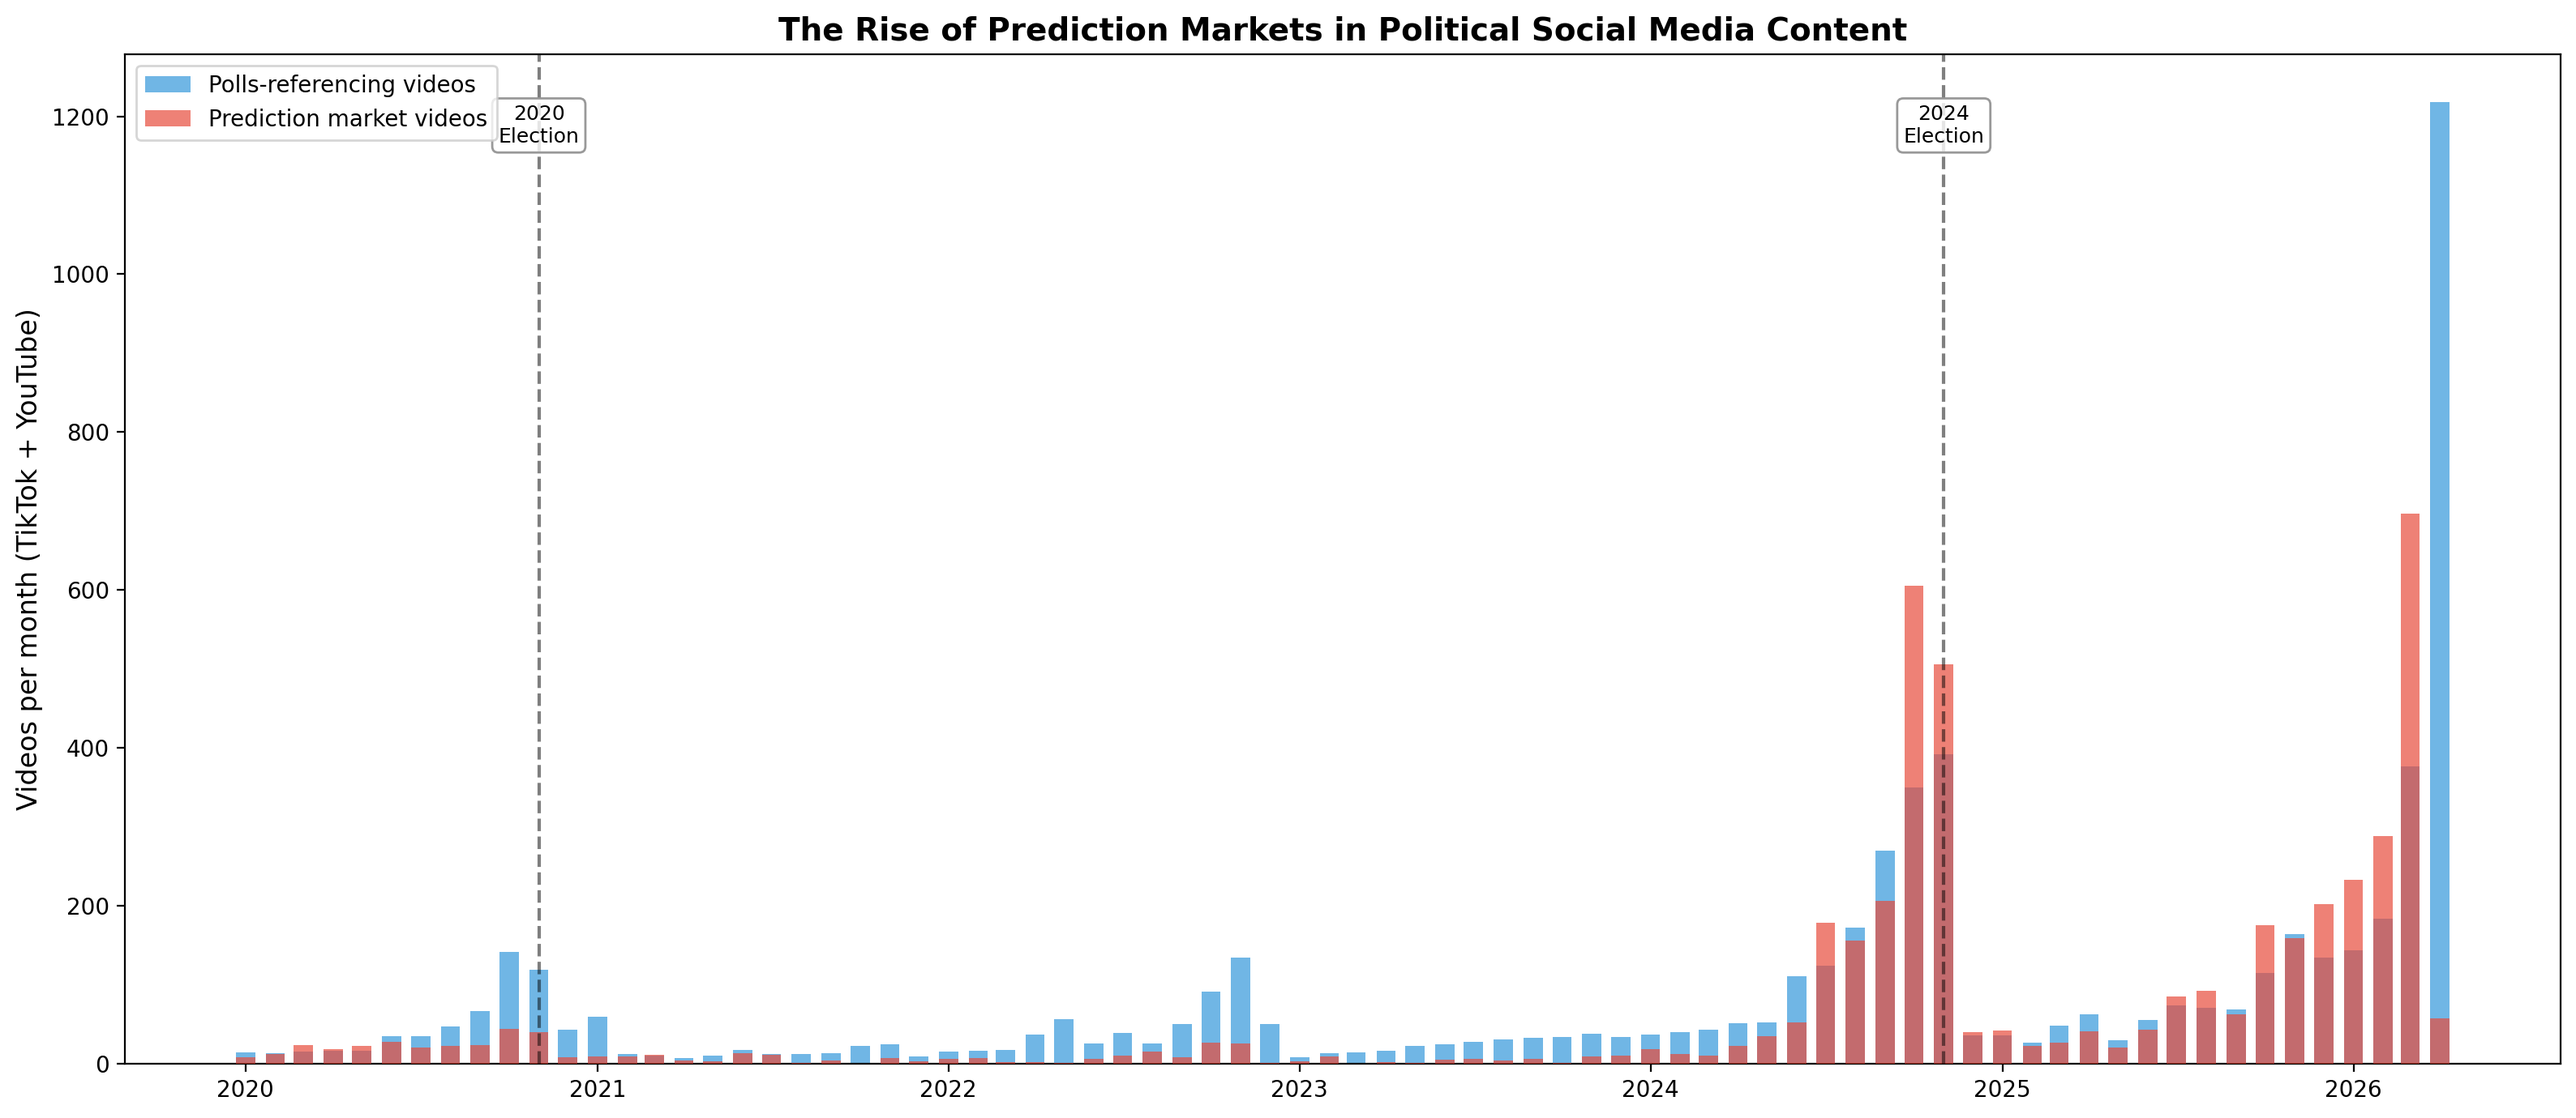
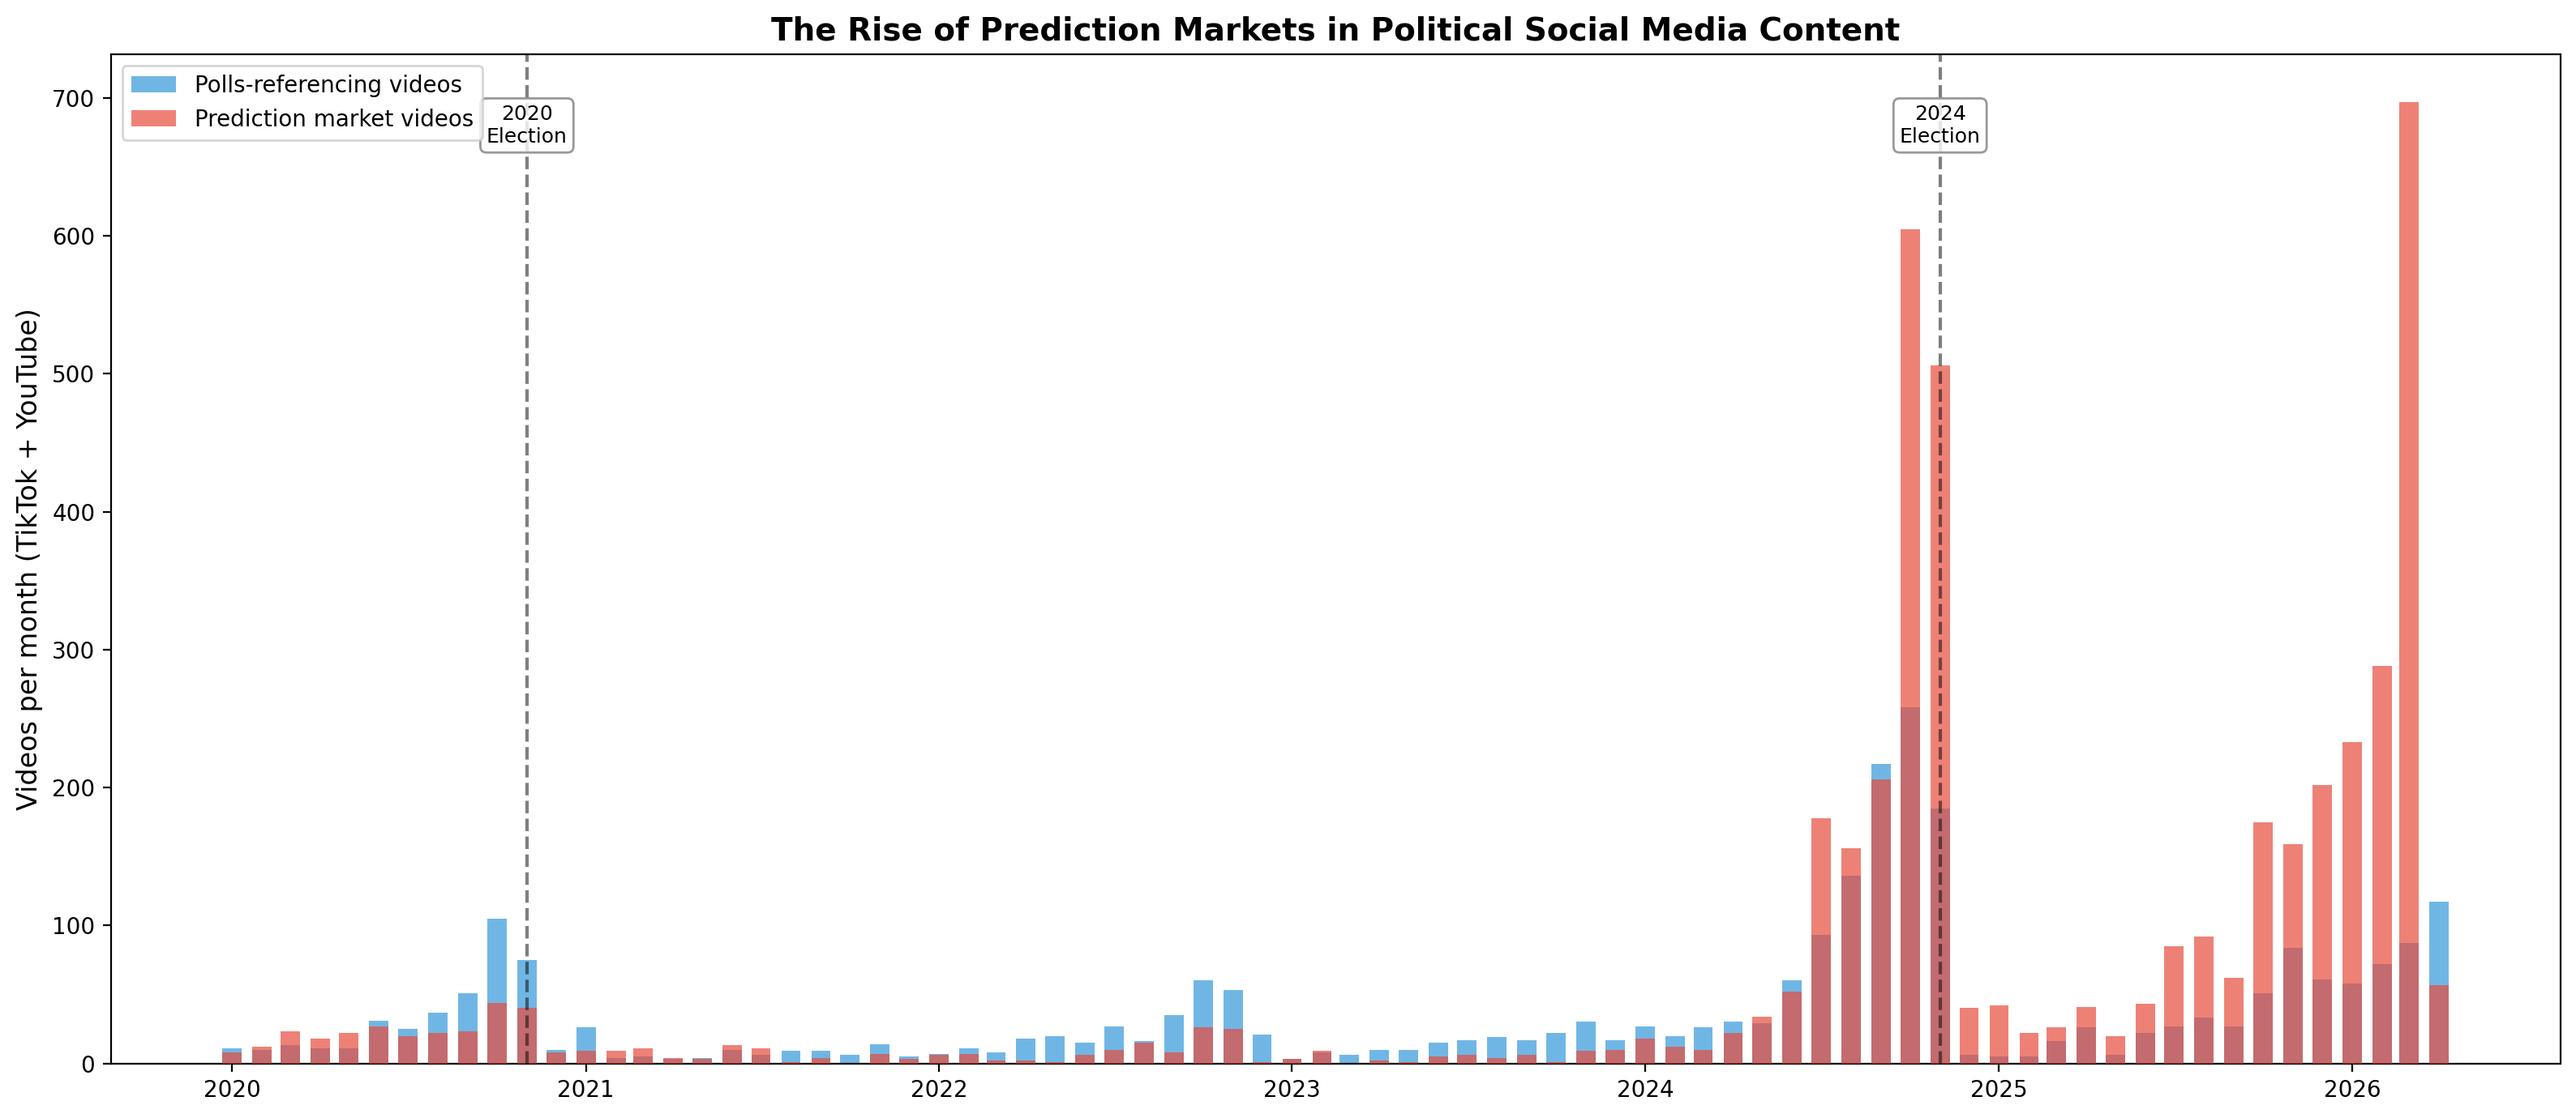
Fix rise of PM chart to use filtered polls data
Previously used raw/unfiltered polls (6,798 videos) while PM side
used filtered data (_topic=YES). Now both sides use filtered data:
- PM: 4,671 videos (filtered)
- Polls: 3,240 videos (filtered)

🤖 Generated with [Claude Code](https://claude.com/claude-code)

diff --git a/replication/rise_of_prediction_markets_in_political_social_media_content/rise_of_prediction_markets_in_political_social_media_content.py b/replication/rise_of_prediction_markets_in_political_social_media_content/rise_of_prediction_markets_in_political_social_media_content.py
@@ -11,7 +11,7 @@ Usage:
     python replication/rise_of_prediction_markets_in_political_social_media_content/rise_of_prediction_markets_in_political_social_media_content.py
 """
 
-import json
+import csv
 import sys
 from pathlib import Path
 
@@ -22,23 +22,25 @@ import matplotlib.dates as mdates
 import numpy as np
 import pandas as pd
 
+csv.field_size_limit(10_000_000)
+
 SCRIPT_DIR = Path(__file__).resolve().parent
 ROOT = SCRIPT_DIR.parent.parent
 OUTPUT_DIR = SCRIPT_DIR
 
-# PM datasets (processed)
+# PM datasets (filtered to political content)
 TIKTOK_PM_CSV = ROOT / "tiktok" / "data" / "tiktok_platform_filtered.csv"
 YOUTUBE_PM_CSV = ROOT / "youtube" / "data" / "youtube_platform_filtered.csv"
 
-# Poll datasets
-TIKTOK_POLLS_RAW = ROOT / "polls" / "data" / "raw" / "tiktok_polls_raw.json"
-YOUTUBE_POLLS_RAW = ROOT / "polls" / "data" / "raw" / "youtube_polls_raw.json"
+# Poll datasets (filtered to political content)
+TIKTOK_POLLS_CSV = ROOT / "polls" / "data" / "tiktok_polls_filtered.csv"
+YOUTUBE_POLLS_CSV = ROOT / "polls" / "data" / "youtube_polls_filtered.csv"
 
 
-def load_pm(csv_path, platform, date_col):
-    """Load processed PM data, filtered to US-politics videos."""
+def load_filtered_csv(csv_path, platform, date_col, source_label):
+    """Load filtered CSV, keeping only _topic=YES rows."""
     if not csv_path.exists():
-        print(f"  {platform} PM: NO DATA FOUND at {csv_path}")
+        print(f"  {platform} {source_label}: NO DATA FOUND at {csv_path}")
         return pd.DataFrame(columns=["date", "source"])
 
     df = pd.read_csv(csv_path)
@@ -46,39 +48,22 @@ def load_pm(csv_path, platform, date_col):
     if "_topic" in df.columns:
         df = df[df["_topic"] == "YES"]
     df = df.dropna(subset=["date"])
-    print(f"  {platform} PM: {len(df)} political videos")
-    return df[["date"]].assign(source="prediction_markets")
-
-
-def load_polls(json_path, platform, date_col):
-    """Load raw poll-referencing video data."""
-    if not json_path.exists():
-        print(f"  {platform} Polls: NO DATA")
-        return pd.DataFrame(columns=["date", "source"])
-
-    data = json.load(open(json_path, encoding="utf-8"))
-    df = pd.DataFrame(data)
-    if date_col not in df.columns:
-        return pd.DataFrame(columns=["date", "source"])
-
-    df["date"] = pd.to_datetime(df[date_col], utc=True, errors="coerce").dt.tz_localize(None)
-    df = df.dropna(subset=["date"])
-    print(f"  {platform} Polls: {len(df)} videos")
-    return df[["date"]].assign(source="polls")
+    print(f"  {platform} {source_label}: {len(df)} political videos")
+    return df[["date"]].assign(source=source_label)
 
 
 def main():
     print("Loading datasets...")
 
-    # Load all data (TikTok + YouTube combined)
+    # Load all data (TikTok + YouTube combined), all filtered to _topic=YES
     dfs = []
-    for loader, path, plat, col in [
-        (load_pm, TIKTOK_PM_CSV, "TikTok", "create_time"),
-        (load_pm, YOUTUBE_PM_CSV, "YouTube", "date_posted"),
-        (load_polls, TIKTOK_POLLS_RAW, "TikTok", "create_time"),
-        (load_polls, YOUTUBE_POLLS_RAW, "YouTube", "date_posted"),
+    for path, plat, col, source in [
+        (TIKTOK_PM_CSV, "TikTok", "create_time", "prediction_markets"),
+        (YOUTUBE_PM_CSV, "YouTube", "date_posted", "prediction_markets"),
+        (TIKTOK_POLLS_CSV, "TikTok", "create_time", "polls"),
+        (YOUTUBE_POLLS_CSV, "YouTube", "date_posted", "polls"),
     ]:
-        d = loader(path, plat, col)
+        d = load_filtered_csv(path, plat, col, source)
         if len(d) > 0:
             dfs.append(d)
 
